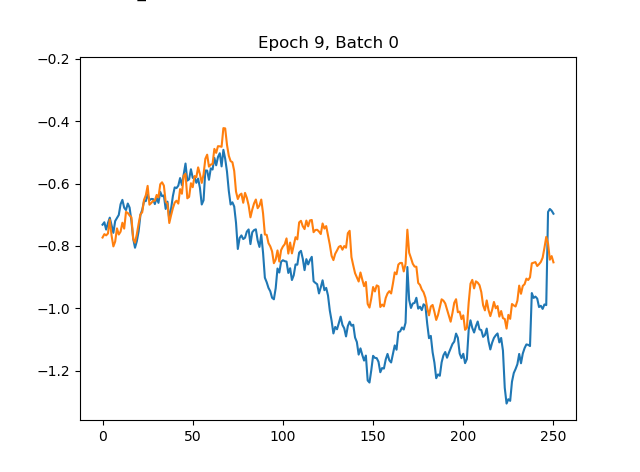
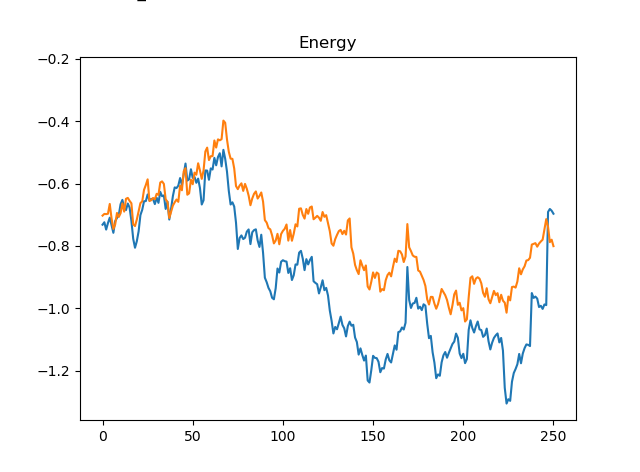
added charts title

Changed region(s): [[0.1562, 0.2373, 0.6562, 0.6525], [0.6562, 0.4746, 0.875, 0.7119], [0.4062, 0.0593, 0.625, 0.1186]]

diff --git a/S&P 500_industries/stock_predict.py b/S&P 500_industries/stock_predict.py
@@ -8,7 +8,7 @@ from sklearn.preprocessing import MinMaxScaler
 import matplotlib.pyplot as plt
 
 # Import data
-data = pd.read_csv('utilities_5yr.csv')
+data = pd.read_csv('communication_Services_5yr.csv')
 
 # Drop date variable
 data = data.dropna()
@@ -144,5 +144,6 @@ for e in range(epochs):
 mse_final = net.run(mse, feed_dict={X: X_test, Y: y_test})
 print(mse_final)
 plt.autoscale(axis='y')
+plt.title("communication_Services",loc='center')
 plt.text(0,0, f"MSE_final={mse_final}", fontsize = 12 )
-plt.savefig('utilities_5yr')
+plt.savefig('communication_Services_5yr')
